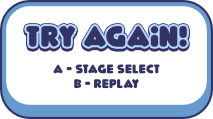
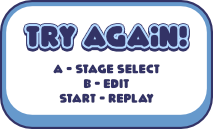
Try Again
Cleaned up the try again screen.
Added the ability to reset the whole level instead of just going back to edit
Shifted more levels around

diff --git a/main/modes/games/Bombadeetle/bombadeetle.c b/main/modes/games/Bombadeetle/bombadeetle.c
@@ -130,9 +130,9 @@ static const cnfsFileIdx_t bombadeetleGoal[] = {
 };
 
 static const cnfsFileIdx_t bombadeetleLevels[] = {
-    BOMB_LVL_ONE_BIN, BOMB_LVL_HELLO_BIN, BOMB_LVL_RIDEIT_BIN, BOMB_LVL_NOHOLES_BIN, BOMB_LVL_GONOHOLE_BIN, BOMB_LVL_SHLOOG_BIN,BOMB_LVL_SPYRL_BIN, BOMB_LVL_NARROW_BIN, BOMB_LVL_MAG_1_BIN, BOMB_LVL_MOTRAINING_BIN,BOMB_LVL_CREPUSCULAR_BIN, BOMB_LVL_JERO_BIN,
-    BOMB_LVL_DOOBLY_BIN, BOMB_LVL_TRISKAIDEKAPHOBIA_BIN, BOMB_LVL_MOWWOW_BIN ,BOMB_LVL_MELLOR_BIN,BOMB_LVL_DELEPORT_BIN, BOMB_LVL_ROGER_BIN,BOMB_LVL_UNDERDEFEAT_BIN, BOMB_LVL_LERNDELEPORT_BIN,BOMB_LVL_DODGEIT_BIN, BOMB_LVL_MAG_2_BIN, BOMB_LVL_DIPDIPDIP_BIN,
-    BOMB_LVL_WOOBLY_BIN, BOMB_LVL_TRAP_BIN, BOMB_LVL_RABBIT_BIN, BOMB_LVL_ASTLE_BIN, BOMB_LVL_TRISKAIDEKAPHOBIA_2_BIN,
+    BOMB_LVL_ONE_BIN, BOMB_LVL_HELLO_BIN, BOMB_LVL_RIDEIT_BIN, BOMB_LVL_NOHOLES_BIN, BOMB_LVL_GONOHOLE_BIN, BOMB_LVL_SHLOOG_BIN,BOMB_LVL_SPYRL_BIN, BOMB_LVL_NARROW_BIN, BOMB_LVL_MAG_1_BIN, BOMB_LVL_MOTRAINING_BIN, 
+    BOMB_LVL_CREPUSCULAR_BIN,BOMB_LVL_JERO_BIN, BOMB_LVL_TRISKAIDEKAPHOBIA_BIN,BOMB_LVL_DOOBLY_BIN, BOMB_LVL_MOWWOW_BIN ,BOMB_LVL_MELLOR_BIN,BOMB_LVL_DELEPORT_BIN, BOMB_LVL_ROGER_BIN,BOMB_LVL_UNDERDEFEAT_BIN, BOMB_LVL_LERNDELEPORT_BIN,
+    BOMB_LVL_DODGEIT_BIN, BOMB_LVL_MAG_2_BIN, BOMB_LVL_DIPDIPDIP_BIN,BOMB_LVL_WOOBLY_BIN, BOMB_LVL_TRAP_BIN, BOMB_LVL_TRISKAIDEKAPHOBIA_2_BIN,BOMB_LVL_RABBIT_BIN, BOMB_LVL_ASTLE_BIN, 
 };
 
 static const cnfsFileIdx_t bombadeetleTeleporter[] = {
@@ -1667,6 +1667,12 @@ static void bombadeetleGameLoop(int64_t elapsedUs)
                             bombadeetle->gameSpeed = DEFAULT_MOVE_AMOUNT;
                         }
                     }
+
+                    if (evt.button & PB_START)
+                    {
+                        bombadeetleImportMap(bombadeetle->levelIndex);
+                        bombadeetleLoadMap();
+                    }
                 }
             }
             break;
@@ -2061,7 +2067,7 @@ static void bombadeetleDrawGame()
         drawWsgSimple(&bombadeetle->collisionSprite, OFFSETMAP_X + bombadeetle->collisionX,OFFSETMAP_Y +  bombadeetle->collisionY);
 
         float successTime = 1 - ((float)bombadeetle->successTime/TIMING_SUCCESS);
-        drawWsgSimple(&bombadeetle->unsuccessful, 33,61 + (200 * successTime));            
+        drawWsgSimple(&bombadeetle->unsuccessful, 33,56 + (200 * successTime));            
 
         
     }
